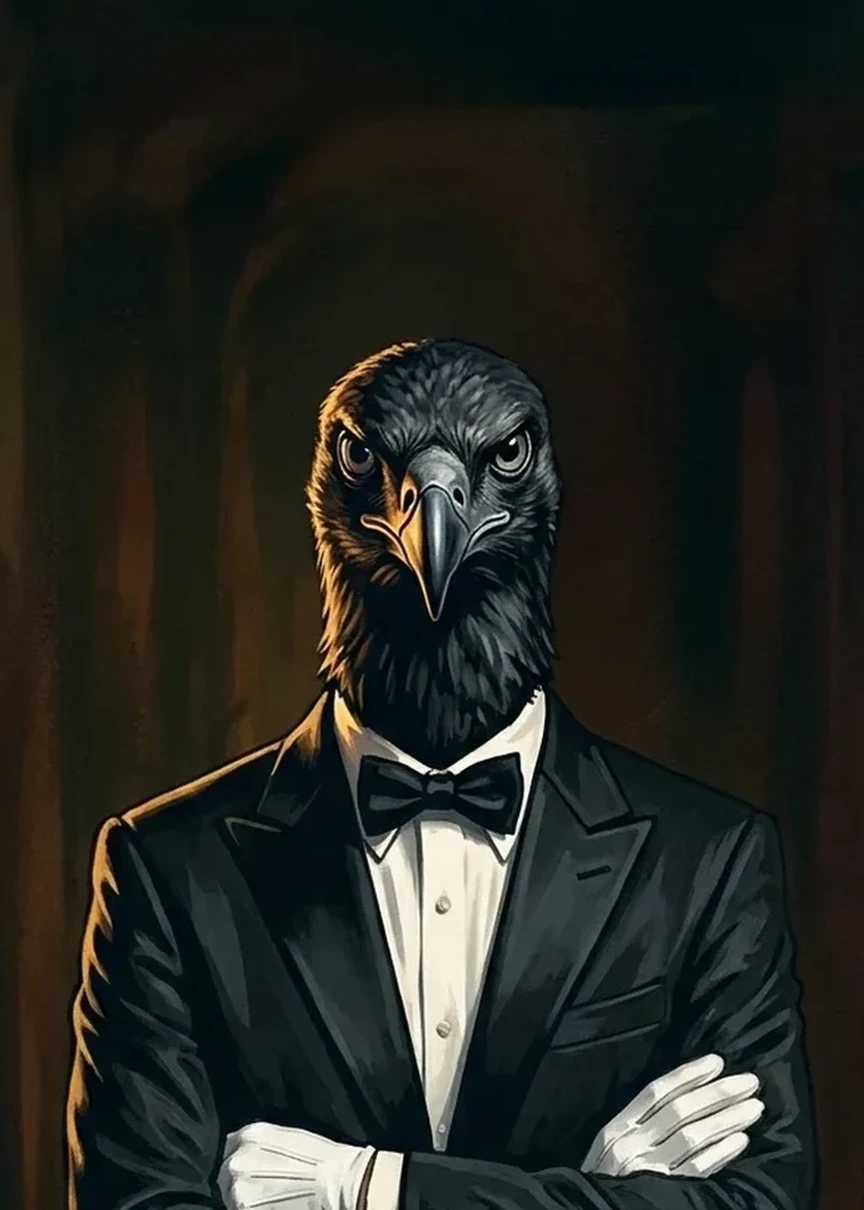
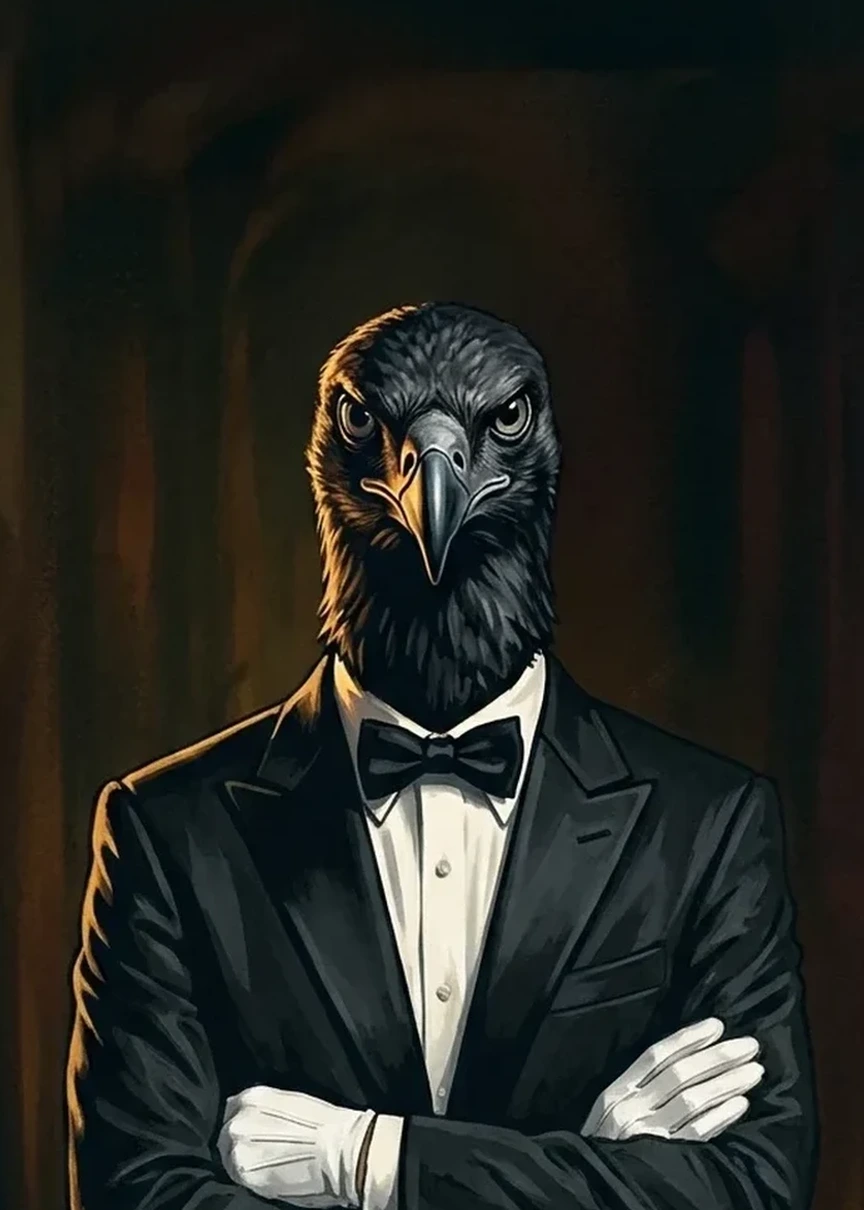
habillages/motel.js: motel key tag linking the five places (lobby arcade, room TV, room DVD, video store, office computer), hidden during a program and inside iframes; index.html, fr.html, habillages pages: load it; tv.html: AV key to the DVD; dvd.html: OPEN back to the TV; kos.css: key tag clear of
Claude-Session: https://claude.ai/code/session_014nJuEK5cDw18x7PV8at3wG

Changed region(s): [[0.0625, 0.2446, 0.9375, 1.0], [0.625, 0.0612, 0.6562, 0.0917], [0.3125, 0.7339, 0.3438, 0.7645]]

diff --git a/habillages/kos.js b/habillages/kos.js
@@ -284,7 +284,7 @@ function notepad(title,text){var pre=h('pre','note');pre.textContent=text;pre.co
 /* ---------- invite de commandes ---------- */
 function terminal(){var box=h('div','wview term'),cwd=ROOT,hist=[],hi=0;
  var unix=S.theme!=='std';
- function prompt(){return unix?'mauk@korhogos:'+(cwd===ROOT?'~':'~/'+pathOf(cwd).split('\\').slice(1).join('/'))+'$ ':pathOf(cwd)+'>'}
+ function prompt(){return unix?'mauk@korhogo:'+(cwd===ROOT?'~':'~/'+pathOf(cwd).split('\\').slice(1).join('/'))+'$ ':pathOf(cwd)+'>'}
  function out(s){var p=h('div');p.textContent=s;box.insertBefore(p,line)}
  var line=h('div'),ps=h('span'),inp=h('input');inp.spellcheck=false;inp.autocapitalize='off';line.appendChild(ps);line.appendChild(inp);
  box.appendChild(h('div',null,unix?'KorhogOS · '+repLong(new Date())+'\n':'\nKorhogOS\n    (C) Korhogo™, Korhogo Fauna™ & Mauk Tenieb\n\n'));box.appendChild(line);ps.textContent=prompt();
@@ -308,7 +308,7 @@ function terminal(){var box=h('div','wview term'),cwd=ROOT,hist=[],hi=0;
    ps.textContent=prompt();box.scrollTop=box.scrollHeight}
   else if(e.key==='ArrowUp'){if(hi>0)inp.value=hist[--hi]||''}else if(e.key==='ArrowDown'){inp.value=hist[++hi]||''}});
  box.addEventListener('click',function(){inp.focus()});
- var w=win({key:'term',title:unix?'mauk@korhogos: ~':(S.lang==='fr'?'Commandes MS-DOS':'MS-DOS Prompt'),icon:'term',w:560,h:330,body:box,onopen:function(){setTimeout(function(){inp.focus()},50)}});return w}
+ var w=win({key:'term',title:unix?'mauk@korhogo: ~':(S.lang==='fr'?'Commandes MS-DOS':'MS-DOS Prompt'),icon:'term',w:560,h:330,body:box,onopen:function(){setTimeout(function(){inp.focus()},50)}});return w}
 
 /* ---------- Exécuter, Rechercher ---------- */
 function runDlg(){var body=h('div','dbody');body.innerHTML='<div style="display:flex;gap:12px;align-items:flex-start">'+ic('run',32)+'<div>'+t('runlbl')+'</div></div><div style="display:flex;align-items:center;gap:8px"><span>'+t('openlbl')+'</span><input class="field in" id="runf" value="korong"></div>';
@@ -412,7 +412,7 @@ function boot(again){var b=$('#boot');b.className='';b.innerHTML='';WINS.slice()
  if(th==='std'){b.innerHTML='<pre>'+t('starting')+'</pre>';setTimeout(function(){if(done)return;b.innerHTML='<div class="splash95" style="background-image:url(a/poster-800.webp)"><div class="wm"><b>Korhog</b><i>OS</i><small>Insert Koin · Korhogo Fauna</small></div><div class="pb"></div></div>'},700);setTimeout(end,2600)}
  else if(th==='plat'){b.innerHTML='<div class="macbox"><div style="margin-bottom:8px">'+ic('koin',32).replace('<svg','<svg style="margin:0 auto 8px"')+'</div>'+t('welcome')+'<div class="bar"><i></i></div></div><div class="macext"></div>';var ex=$('.macext',b),list=['koin','minitel','vhs','camera','book','musik','mic','onion','repo','skopo','jukebox','webcam'];
   setTimeout(function(){var i=$('.bar i',b);if(i)i.style.width='100%'},60);list.forEach(function(n,i){setTimeout(function(){if(!done)ex.insertAdjacentHTML('beforeend',KICON(n,32))},150+i*140)});setTimeout(end,2300)}
- else if(th==='fram'){var L=['[    0.000000] Booting KorhogOS','[    0.412870] Korhogo: 18 Masks found','[  OK  ] Started Motel Sound.','[  OK  ] Started SkopoRhogo.','[  OK  ] Reached target KorhoGame.','[  OK  ] Started FaunEye.','[  OK  ] Started SurFauna.','[  OK  ] Started 3615.','[  OK  ] Reached target Graphical Interface.'],pre=h('pre');b.appendChild(pre);L.forEach(function(l,i){setTimeout(function(){if(!done)pre.textContent+=l+'\n'},i*170)});setTimeout(end,1900)}
+ else if(th==='fram'){var L=['[    0.000000] Booting KorhogOS','[  OK  ] Started Motel Sound.','[  OK  ] Started SkopoRhogo.','[  OK  ] Reached target KorhoGame.','[  OK  ] Started FaunEye.','[  OK  ] Started SurFauna.','[  OK  ] Started 3615.','[  OK  ] Reached target Graphical Interface.'],pre=h('pre');b.appendChild(pre);L.forEach(function(l,i){setTimeout(function(){if(!done)pre.textContent+=l+'\n'},i*170)});setTimeout(end,1900)}
  else{b.style.background='#596a8a';b.innerHTML='<div class="cdelogin"><b>'+t('welcome')+'</b><br>'+t('login')+'<br><input class="field" value="mauk" readonly></div>';setTimeout(end,1500)}}
 
 /* ---------- apparence ---------- */
@@ -428,7 +428,7 @@ addEventListener('keydown',function(e){if(e.key==='Escape'){if(openMenus.length)
  if(e.key==='Enter'&&SEL&&!e.target.closest('input,pre,select,textarea'))openNode(SEL)});
 addEventListener('resize',function(){clearTimeout(window.__rz);window.__rz=setTimeout(renderDesk,150)});
 /* l'enseigne brouille le titre de l'onglet */
-setInterval(function(){var r=Math.random(),n=r<.7?'KorhogOS':['Intersektion','SektorInn','NoirInsekt'][Math.floor(Math.random()*3)];document.title=n},5200);
+setInterval(function(){var r=Math.random(),n=r<.7?'KorhogOS':['Intersektion','Sektor Inn','Noir Insekt'][Math.floor(Math.random()*3)];document.title=n},5200);
 
 /* montage */
 document.documentElement.lang=S.lang;

diff --git a/habillages/motel.js b/habillages/motel.js
@@ -1,0 +1,53 @@
+/* Le porte-clé du motel : les cinq lieux d'Insert Koin (hall, chambre, vidéoclub, bureau), au même coin de chaque page.
+   Décision de Mauk Tenieb, 8 nov. 2026 : les univers sont les lieux d'un même motel. */
+(function(){
+if(window.top!==window.self||document.getElementById('mk'))return;
+var lang='fr';try{lang=localStorage.getItem('ik.lang')||(/^fr/.test(navigator.language)?'fr':'en')}catch(e){}
+var B=/github\.io$/.test(location.hostname)?'https://mauktenieb.github.io/insertkoin/':'../';
+var here=(location.pathname.split('/').pop()||'').replace(/\?.*/,'');
+/* dans la borne (hall), les lieux sont dans habillages/ ; le porte-clé se retire pendant un programme */
+var HALL=!/\/habillages\//.test(location.pathname),P=HALL?'habillages/':'';if(HALL)here='../';
+var L=[
+ ['../',          'Hall · borne d’arcade','Lobby · arcade cabinet'],
+ ['tv.html',      'Chambre · télévision','Room · television'],
+ ['dvd.html',     'Chambre · lecteur DVD','Room · DVD player'],
+ ['videoclub.html','Vidéoclub','Video store'],
+ ['kos.html',     'Bureau · ordinateur','Office · computer']];
+var css='#mk{position:fixed;left:14px;top:0;z-index:2147483000;font:13px/1.35 "Courier New",Courier,monospace;-webkit-tap-highlight-color:transparent}'+
+'#mk .fob{display:block;width:34px;cursor:pointer;background:none;border:0;padding:0 5px 4px;box-sizing:content-box;filter:drop-shadow(0 3px 3px rgba(0,0,0,.55));transform-origin:50% 0;transition:transform .2s}'+
+'#mk .fob:hover{transform:rotate(-6deg)}'+
+'#mk .fob:focus-visible{outline:2px solid #f3eedf;outline-offset:2px}'+
+'#mk .card{position:absolute;left:2px;top:84px;min-width:236px;background:#f3eedf;color:#1b1813;border:1px solid #b9b19c;box-shadow:0 8px 22px rgba(0,0,0,.6);padding:10px 0 8px;display:none}'+
+'#mk.on .card{display:block}'+
+'#mk .card a{display:block;padding:6px 14px;color:#1b1813;text-decoration:none;border-top:1px dotted #c8bfa8}'+
+'#mk .card a:first-child{border-top:0}'+
+'#mk .card a:hover,#mk .card a:focus{background:#e4dcc6;outline:0}'+
+'#mk .card a.cur{color:#8b1e1e}'+
+'#mk .card a.cur::after{content:" ◀"}'+
+'#mk .fob svg{width:100%;height:auto;display:block}'+
+'@media (max-width:900px){#mk{left:4px}#mk .fob{width:28px;padding:0 8px 4px}#mk .card{top:66px}}'+
+'body.on-calque #mk,html[data-prog] #mk,.b-immersion #mk{display:none}';
+var st=document.createElement('style');st.textContent=css;document.head.appendChild(st);
+/* porte-clé de motel en losange, plastique rouge, anneau et clé en laiton */
+var svg='<svg viewBox="0 0 34 82" width="34" height="82" aria-hidden="true">'+
+'<line x1="17" y1="0" x2="17" y2="7" stroke="#2a2420" stroke-width="2"/>'+
+'<circle cx="17" cy="12" r="5.5" fill="none" stroke="#b08a3e" stroke-width="2"/>'+
+'<path d="M14 17h6v5h-1v3h-2v-2h-1v4h-2z" fill="#c9a24e" stroke="#7d6128" stroke-width=".6"/>'+
+'<path d="M17 26 L32 52 Q33 54 31.5 56 L19 79 Q17 82 15 79 L2.5 56 Q1 54 2 52 Z" fill="#8b1e1e" stroke="#5e1212" stroke-width="1"/>'+
+'<path d="M17 31 L28.5 52.5 L17 75 L5.5 52.5 Z" fill="none" stroke="#e9dccb" stroke-width=".8" opacity=".75"/>'+
+'<circle cx="17" cy="33" r="2.3" fill="#2a2420"/>'+
+'<text x="17" y="55.5" text-anchor="middle" font-family="Arial,Helvetica,sans-serif" font-weight="700" font-size="5.6" letter-spacing=".6" fill="#efe3cf">KORHOGO</text>'+
+'<path d="M8 30 L17 28 L11 44 Z" fill="#fff" opacity=".12"/></svg>';
+var w=document.createElement('div');w.id='mk';
+var b=document.createElement('button');b.className='fob';b.type='button';b.setAttribute('aria-haspopup','true');b.setAttribute('aria-expanded','false');
+b.setAttribute('aria-label',lang==='fr'?'Porte-clé du motel : les lieux':'Motel key tag: the places');b.innerHTML=svg;
+var c=document.createElement('nav');c.className='card';c.setAttribute('aria-label',lang==='fr'?'Les lieux du motel':'The motel places');
+function fill(){try{lang=localStorage.getItem('ik.lang')||lang}catch(e){}c.innerHTML='';L.forEach(function(x){var a=document.createElement('a');a.href=x[0]==='../'?(HALL?'./':B):P+x[0];a.textContent=lang==='fr'?x[1]:x[2];if(x[0]===here)a.className='cur';c.appendChild(a)})}fill();
+w.appendChild(b);w.appendChild(c);
+function tog(v){w.classList.toggle('on',v);b.setAttribute('aria-expanded',String(v))}
+b.addEventListener('click',function(e){e.stopPropagation();var v=!w.classList.contains('on');if(v)fill();tog(v)});
+document.addEventListener('click',function(e){if(!w.contains(e.target))tog(false)});
+document.addEventListener('keydown',function(e){if(e.key==='Escape'&&w.classList.contains('on')){tog(false);b.focus();e.stopPropagation();e.preventDefault()}},true);
+function add(){document.body.appendChild(w);var t=getComputedStyle(document.documentElement).getPropertyValue('--mk-top');if(t)w.style.top=t}
+if(document.body)add();else document.addEventListener('DOMContentLoaded',add);
+})();

diff --git a/habillages/tv.html b/habillages/tv.html
@@ -83,6 +83,7 @@ html,body{margin:0;height:100%;overflow:hidden;background:#0b0908;user-select:no
 #remote{display:grid;grid-template-columns:repeat(3,44px);gap:6px;padding:12px 10px 16px;background:linear-gradient(#2a2622,#171412);border-radius:18px 18px 26px 26px;box-shadow:0 8px 20px rgba(0,0,0,.7),inset 0 1px 0 rgba(255,255,255,.07)}
 #remote button{height:30px;border:0;border-radius:7px;background:#3a342d;color:#e8e0cc;font:12px Arial,sans-serif;box-shadow:0 2px 0 #0e0c0a;cursor:pointer;touch-action:manipulation;padding:0}
 #remote button:active{transform:translateY(1px);box-shadow:none}
+#remote .av{grid-column:span 3}
 #remote .w{grid-column:span 3;display:grid;grid-template-columns:repeat(4,1fr);gap:6px}
 #remote .w button{height:16px;border-radius:4px}
 #remote .red{background:#c9302a!important}#remote .grn{background:#2e9a3a!important}#remote .yel{background:#d8b820!important}#remote .cya{background:#2aa8c8!important}
@@ -114,6 +115,7 @@ html,body{margin:0;height:100%;overflow:hidden;background:#0b0908;user-select:no
   <button data-k="7">7</button><button data-k="8">8</button><button data-k="9">9</button>
   <button data-k="chdn">CH ▼</button><button data-k="0">0</button><button data-k="chup">CH ▲</button>
   <button data-k="voldn">VOL −</button><button data-k="ok">OK</button><button data-k="volup">VOL +</button>
+  <button class="av" data-k="av">AV</button>
   <div class="w"><button class="red" data-k="red"></button><button class="grn" data-k="green"></button><button class="yel" data-k="yellow"></button><button class="cya" data-k="cyan"></button></div>
  </div>
 </div>
@@ -229,7 +231,7 @@ function goPage(n){/* l'en-tête défile pendant la recherche, comme sur un vrai
 setInterval(function(){if(txt&&!entry){var f=PAGES[page];if(f){var rows=f(sub);var g=$('#grid');var h0=rows[0];/* horloge de l'en-tête */render(rows)}}},1000);
 
 /* ---------- commandes ---------- */
-function key(k){var ir=$('#ir');ir.classList.add('on');setTimeout(function(){ir.classList.remove('on')},100);
+function key(k){if(k==='av'){location.href='dvd.html';return}var ir=$('#ir');ir.classList.add('on');setTimeout(function(){ir.classList.remove('on')},100);
  if(k==='power'){power=!power;$('#tube').style.filter=power?'':'brightness(0)';if(!power){txt=0;$('#ttx').className='layer'}return}if(!power)return;
  if(k==='txt'){txt=(txt+1)%3;var t=$('#ttx');t.className='layer'+(txt===1?' on':txt===2?' on mix':'');if(txt===1)goPage(page);return}
  if(/^\d$/.test(k)){if(txt){entry+=k;var g=$('#grid');render([' P'+pad(entry,3)+'  '+A.y+'KORHOGO'].concat([]));if(entry.length===3){var n=+entry;entry='';goPage(n)}return}
@@ -253,9 +255,10 @@ var ty;$('#ggrid').addEventListener('touchstart',function(e){ty=e.touches[0].cli
 function fit(){var portrait=innerHeight>innerWidth*1.0,rw=$('#remote').offsetWidth;var W=portrait?Math.min(innerWidth*.94,(innerHeight-260)*1.05):Math.min(innerWidth-rw-60,(innerHeight*.86)*1.42);document.documentElement.style.setProperty('--tw',Math.max(240,W)+'px');setTimeout(function(){fitTtx();if(cur().id==='guide')guide()},50)}
 addEventListener('resize',fit);
 /* titre de l'onglet : l'enseigne */
-setInterval(function(){var r=Math.random();document.title=(r<.7?'Insert Koin':['Intersektion','SektorInn','NoirInsekt'][Math.floor(Math.random()*3)])+' — Motel TV'},6000);
+setInterval(function(){var r=Math.random();document.title=(r<.7?'Insert Koin':['Intersektion','Sektor Inn','Noir Insekt'][Math.floor(Math.random()*3)])+' — Motel TV'},6000);
 fit();document.fonts&&document.fonts.ready.then(function(){draw()});draw();
 })();
 </script>
+<script src="motel.js"></script>
 </body>
 </html>

diff --git a/habillages/dvd.html b/habillages/dvd.html
@@ -238,7 +238,7 @@ function key(k){idle=0;if(saverOn){stopSaver();return}var ir=$('#ir');ir.classLi
  else if(k==='subt'){st.subs=st.subs==='off'?st.lang:'off';save();paint()}
  else if(k==='audio'){prohibited()}
  else if(k==='stop'){prohibited()}
- else if(k==='eject'){clearInterval(bgT);bgT=null;show('lang',langScreen)}}
+ else if(k==='eject'){clearInterval(bgT);bgT=null;location.href='tv.html'}}
 $$('#remote button,#rside button').forEach(function(b){b.addEventListener('click',function(){key(b.dataset.k)})});
 addEventListener('keydown',function(e){var m={ArrowUp:'up',ArrowDown:'down',ArrowLeft:'left',ArrowRight:'right',Enter:'ok',' ':'ok',Escape:'menu',Backspace:'menu'}[e.key];if(m){e.preventDefault();key(m)}});
 $('#stage').addEventListener('click',function(e){if(cur==='warn'||cur==='ident')key('ok')});
@@ -255,5 +255,6 @@ BG.forEach(function(u){var d=h('div','bg');d.style.backgroundImage='url('+u+')';
 fit();setTimeout(fit,300);$('#lang').classList.add('on');cur='lang';langScreen();
 })();
 </script>
+<script src="motel.js"></script>
 </body>
 </html>

diff --git a/sw.js b/sw.js
@@ -1,5 +1,5 @@
 /* Insert Koin: pages and code from the network first (the cache only when offline); images, fonts and wasm from the cache, then refreshed */
-const C='borne-202611080149';  // prefix borne- : this worker clears only its own caches, Insert Koin's ik- caches stay
+const C='borne-202611080300';  // prefix borne- : this worker clears only its own caches, Insert Koin's ik- caches stay
 self.addEventListener('install',e=>self.skipWaiting());
 self.addEventListener('activate',e=>e.waitUntil(caches.keys().then(ks=>Promise.all(ks.filter(k=>k!==C&&(k.indexOf('borne-')===0||(k.indexOf('ik-')===0&&k.indexOf('ik-archive')!==0))).map(k=>caches.delete(k)))).then(()=>self.clients.claim())));
 self.addEventListener('fetch',e=>{const u=new URL(e.request.url);if(e.request.method!=='GET'||u.origin!==location.origin)return;

diff --git a/habillages/kos.css b/habillages/kos.css
@@ -391,3 +391,9 @@ body{font:var(--f);color:var(--tx);background:var(--desk)}
 .plat .wview{scrollbar-color:#ccccff #ddd}
 .plat .vi .lb{font:12px/14px Chicago}
 #fp .date span{font-size:9px}
+/* porte-clé du motel (motel.js) : hors des icônes du bureau et des barres de chaque système */
+body.std #mk{left:auto;right:14px;top:0}
+body.std #mk .card{left:auto;right:2px}
+body.plat #mk{top:21px}
+body.fram #mk{left:auto;right:14px;top:37px}
+body.fram #mk .card{left:auto;right:2px}

diff --git a/fr.html b/fr.html
@@ -2236,5 +2236,6 @@ requestAnimationFrame(frame);
 <script src="borne-arcade.js"></script>
 <script src="borne-plante.js"></script>
 <script src="borne-musik.js"></script>
+<script src="habillages/motel.js"></script>
 </body>
 </html>

diff --git a/index.html b/index.html
@@ -2235,5 +2235,6 @@ requestAnimationFrame(frame);
 <script src="borne-arcade.js"></script>
 <script src="borne-plante.js"></script>
 <script src="borne-musik.js"></script>
+<script src="habillages/motel.js"></script>
 </body>
 </html>

diff --git a/habillages/videoclub.html b/habillages/videoclub.html
@@ -119,5 +119,6 @@ addEventListener('keydown',function(e){if(e.key==='Escape')$('#case').classList.
 rayon();nav();
 })();
 </script>
+<script src="motel.js"></script>
 </body>
 </html>

diff --git a/habillages/kos.html b/habillages/kos.html
@@ -21,5 +21,6 @@
 <script src="kdata.js"></script>
 <script src="icons.js"></script>
 <script src="kos.js"></script>
+<script src="motel.js"></script>
 </body>
 </html>
